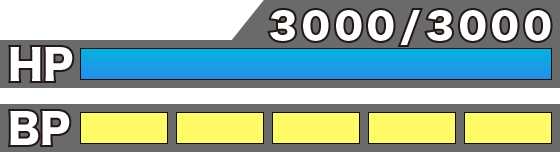
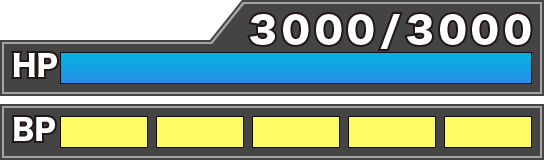
敵ゲージのモックも追加した

diff --git a/src/js/game-object/gauge/view/enemy-gauge-view.js b/src/js/game-object/gauge/view/enemy-gauge-view.js
@@ -1,17 +1,67 @@
 // @flow
 
-import {PlayerGaugeView} from "./player-gauge-view";
+import * as THREE from 'three';
+import type {GaugeView} from "./gauge-view";
+import type {GaugeModel} from "../model/gauge-model";
 import type {Resources} from "../../../resource";
 import type {PreRender} from "../../../action/game-loop/pre-render";
+import {SimpleImageMesh} from "../../../mesh/simple-image-mesh";
+import {CANVAS_IMAGE_IDS} from "../../../resource/canvas-image";
+import {Group} from "three";
 
-/** 敵のゲージ */
-export class EnemyGaugeView extends PlayerGaugeView {
+export const BASE_CANVAS_SIZE = 1024;
+export const SCALE = 0.3;
+
+/** 敵のビュー */
+export class EnemyGaugeView implements GaugeView {
+  _group: THREE.Group;
+  _base: SimpleImageMesh;
+
   constructor(resources: Resources) {
-    super(resources);
+    this._group = new Group();
+    this._group.scale.set(SCALE, SCALE, SCALE);
+
+    const gaugeBaseResource = resources.canvasImages.find(v => v.id === CANVAS_IMAGE_IDS.ENEMY_GAUGE_BASE);
+    const gaugeBase = gaugeBaseResource
+      ? gaugeBaseResource.image
+      : new Image();
+    this._base = new SimpleImageMesh({
+      canvasSize: BASE_CANVAS_SIZE,
+      image: gaugeBase
+    });
+    this._group.add(this._base.getObject3D());
   }
 
+  /** デストラクタ */
+  destructor(): void {
+    this._base.destructor();
+  }
+
+  /** モデルをビューに反映させる */
+  engage(model: GaugeModel): void {
+    // TODO ゲージ反映を実装する
+  }
+
+  /** プリレンダー */
   preRender(action: PreRender): void {
-    super.preRender(action);
-    this._canvasMesh.mesh.position.x *= -1;
+    this._setPos(action.rendererDOM);
+    this._lookAt(action.camera);
+  }
+
+  /** シーンに追加するオブジェクトを取得する */
+  getObject3D(): THREE.Object3D {
+    return this._group;
+  }
+
+  /** 座標をセットする */
+  _setPos(rendererDOM: HTMLElement): void {
+    this._group.position.x = -100;
+    this._group.position.y = rendererDOM.clientHeight / 2 - 50;
+    this._group.position.z = 0;
+  }
+
+  /** カメラの真正面を向く */
+  _lookAt(camera: THREE.Camera): void {
+    this._group.quaternion.copy(camera.quaternion);
   }
 }

diff --git a/src/js/game-object/gauge/view/player-gauge-view.js b/src/js/game-object/gauge/view/player-gauge-view.js
@@ -3,8 +3,6 @@
 import * as THREE from 'three';
 import type {GaugeView} from "./gauge-view";
 import type {GaugeModel} from "../model/gauge-model";
-import {CanvasMesh} from "../../../mesh/canvas-mesh";
-import {drawGauge} from "../../../canvas/gauge";
 import type {Resources} from "../../../resource";
 import type {PreRender} from "../../../action/game-loop/pre-render";
 import {SimpleImageMesh} from "../../../mesh/simple-image-mesh";
@@ -12,7 +10,7 @@ import {CANVAS_IMAGE_IDS} from "../../../resource/canvas-image";
 import {Group} from "three";
 
 export const BASE_CANVAS_SIZE = 1024;
-export const SCALE = 0.4;
+export const SCALE = 0.3;
 
 /** プレイヤーゲージのビュー */
 export class PlayerGaugeView implements GaugeView {
@@ -41,7 +39,7 @@ export class PlayerGaugeView implements GaugeView {
 
   /** モデルをビューに反映させる */
   engage(model: GaugeModel): void {
-
+    // TODO ゲージ反映を実装する
   }
 
   /** プリレンダー */

diff --git a/src/js/resource/canvas-image.js b/src/js/resource/canvas-image.js
@@ -41,6 +41,7 @@ export const CANVAS_IMAGE_IDS = {
   PLAYER_TURN: 'PLAYER_TURN',
   ENEMY_TURN: 'ENEMY_TURN',
   PLAYER_GAUGE_BASE: 'PLAYER_GAUGE_BASE',
+  ENEMY_GAUGE_BASE: 'ENEMY_GAUGE_BASE',
 };
 
 /** キャンバス用画像設定をあつめたもの */
@@ -136,7 +137,11 @@ export const CANVAS_IMAGE_CONFIGS: CanvasImageConfig[] = [
   {
     id: CANVAS_IMAGE_IDS.PLAYER_GAUGE_BASE,
     path: 'gauge/player-gauge-base.png',
-  }
+  },
+  {
+    id: CANVAS_IMAGE_IDS.ENEMY_GAUGE_BASE,
+    path: 'gauge/enemy-gauge-base.png',
+  },
 ];
 
 /**
